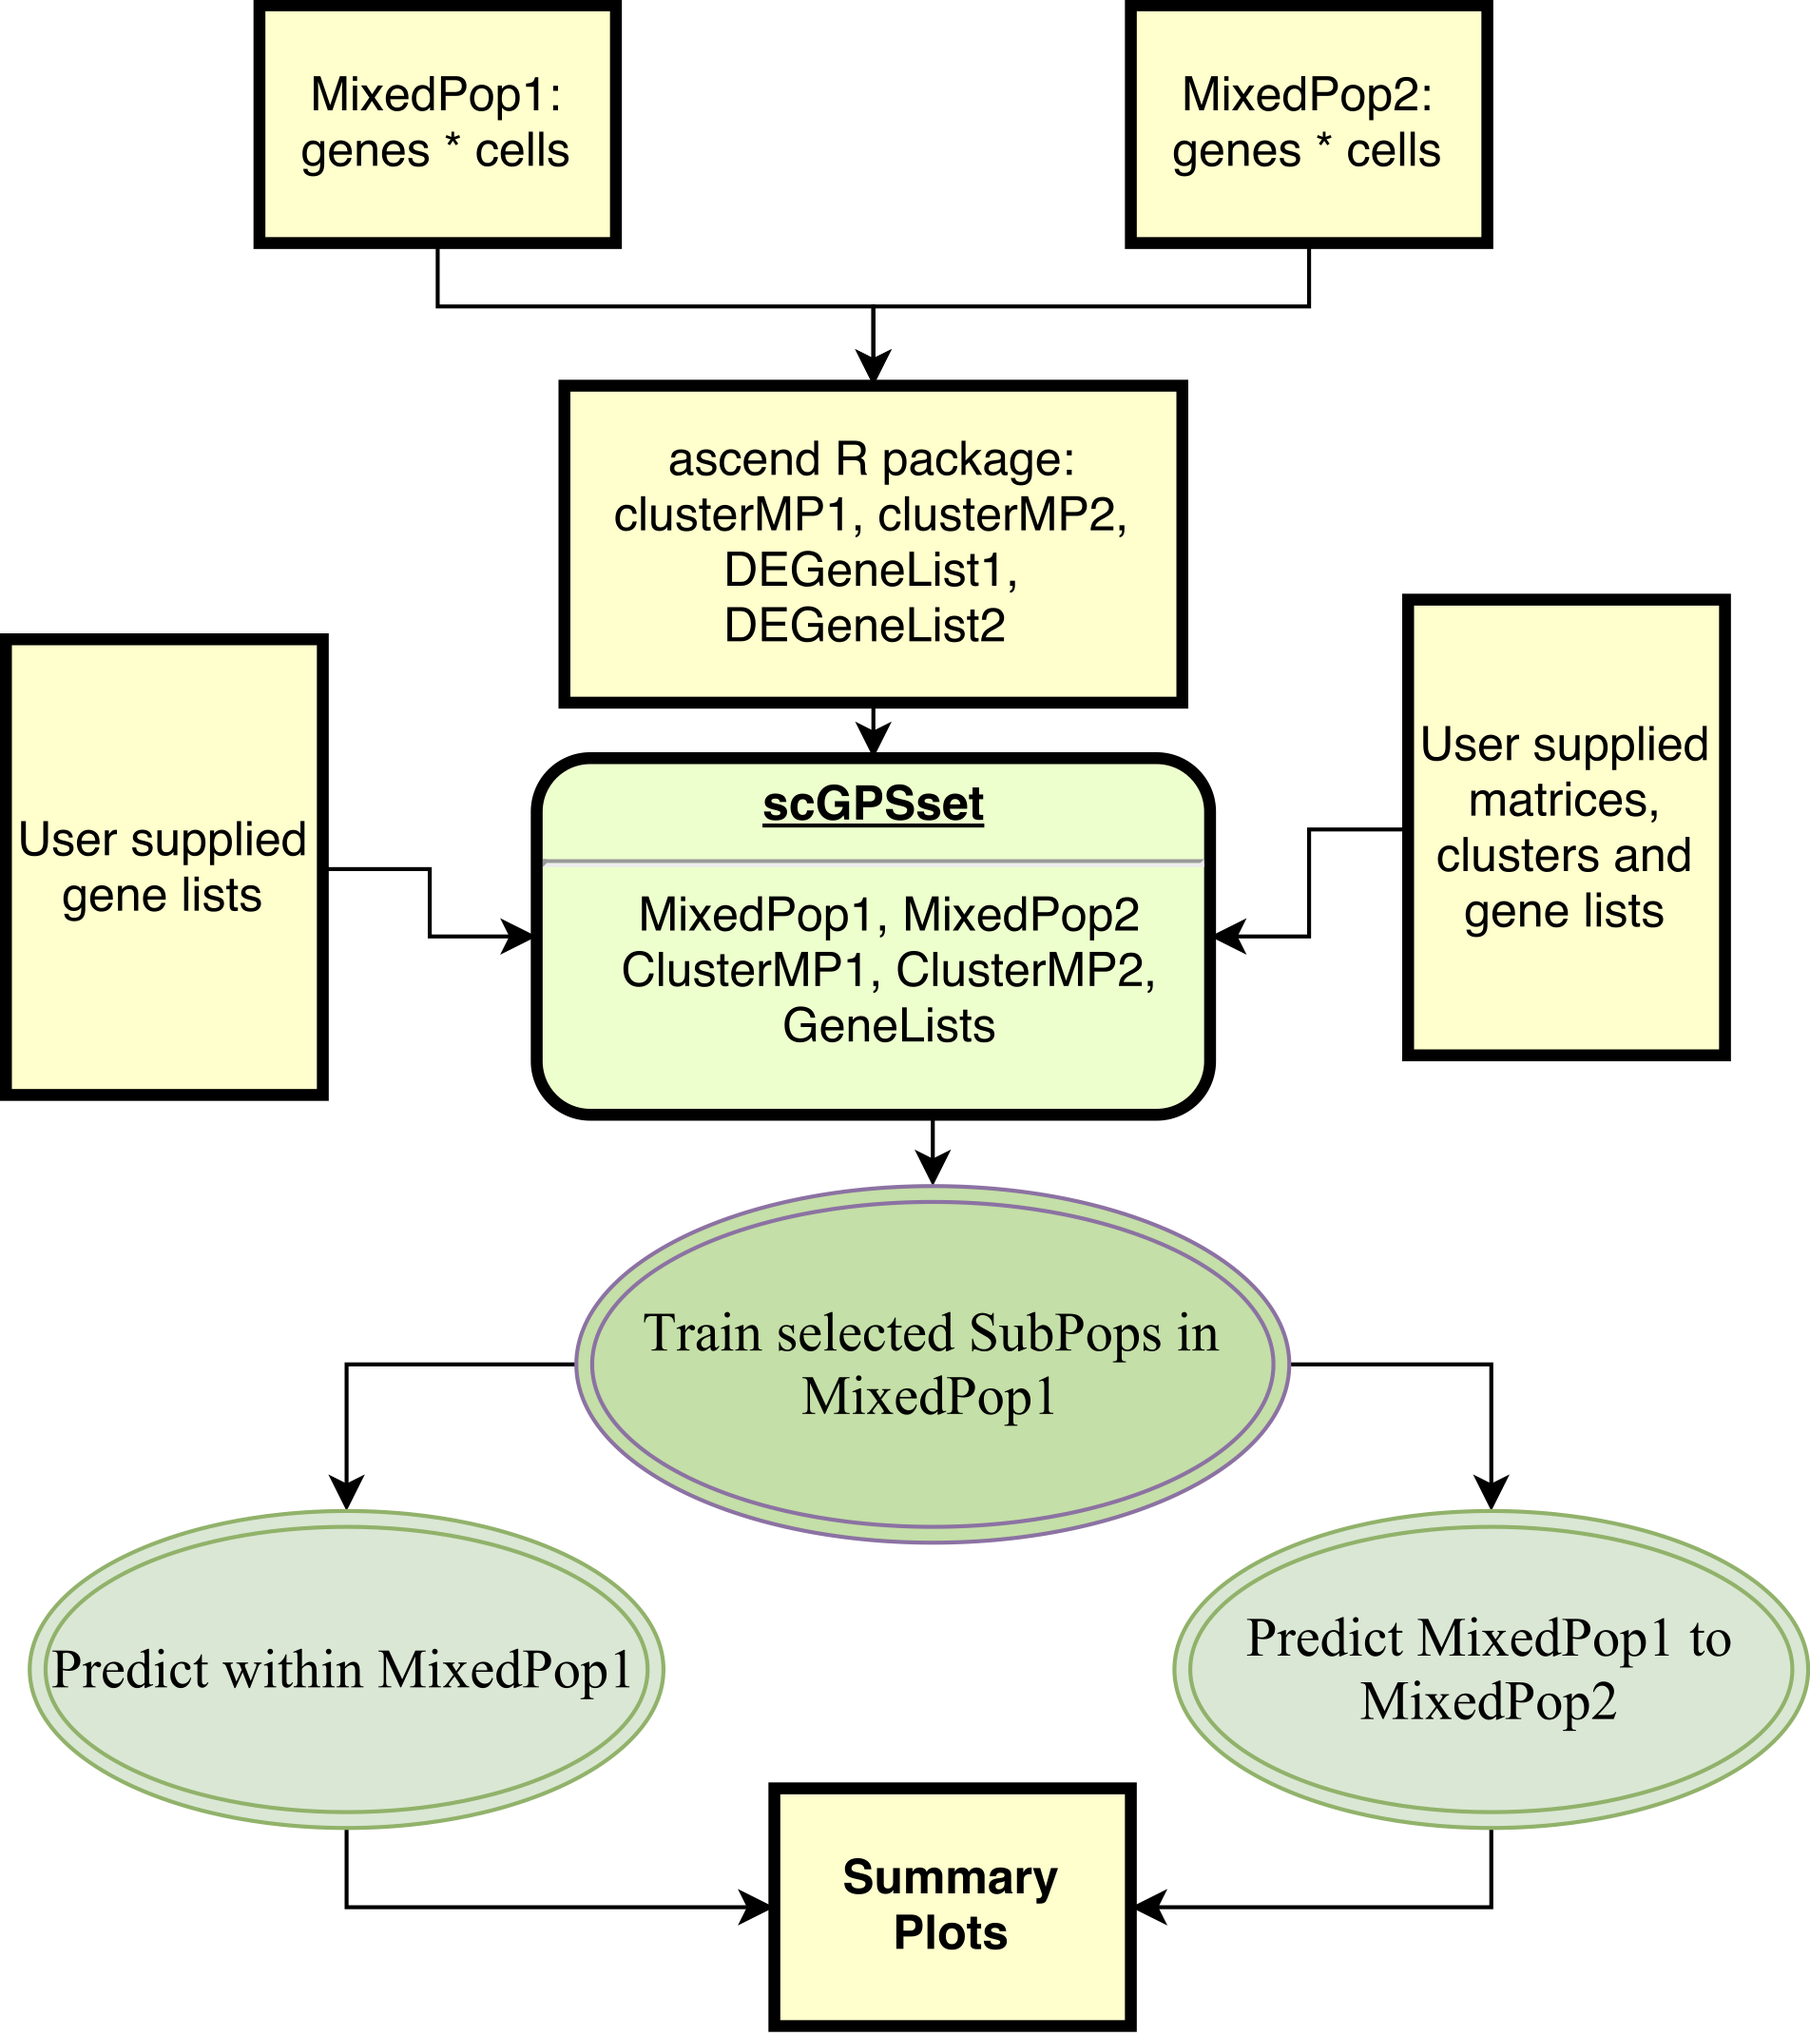
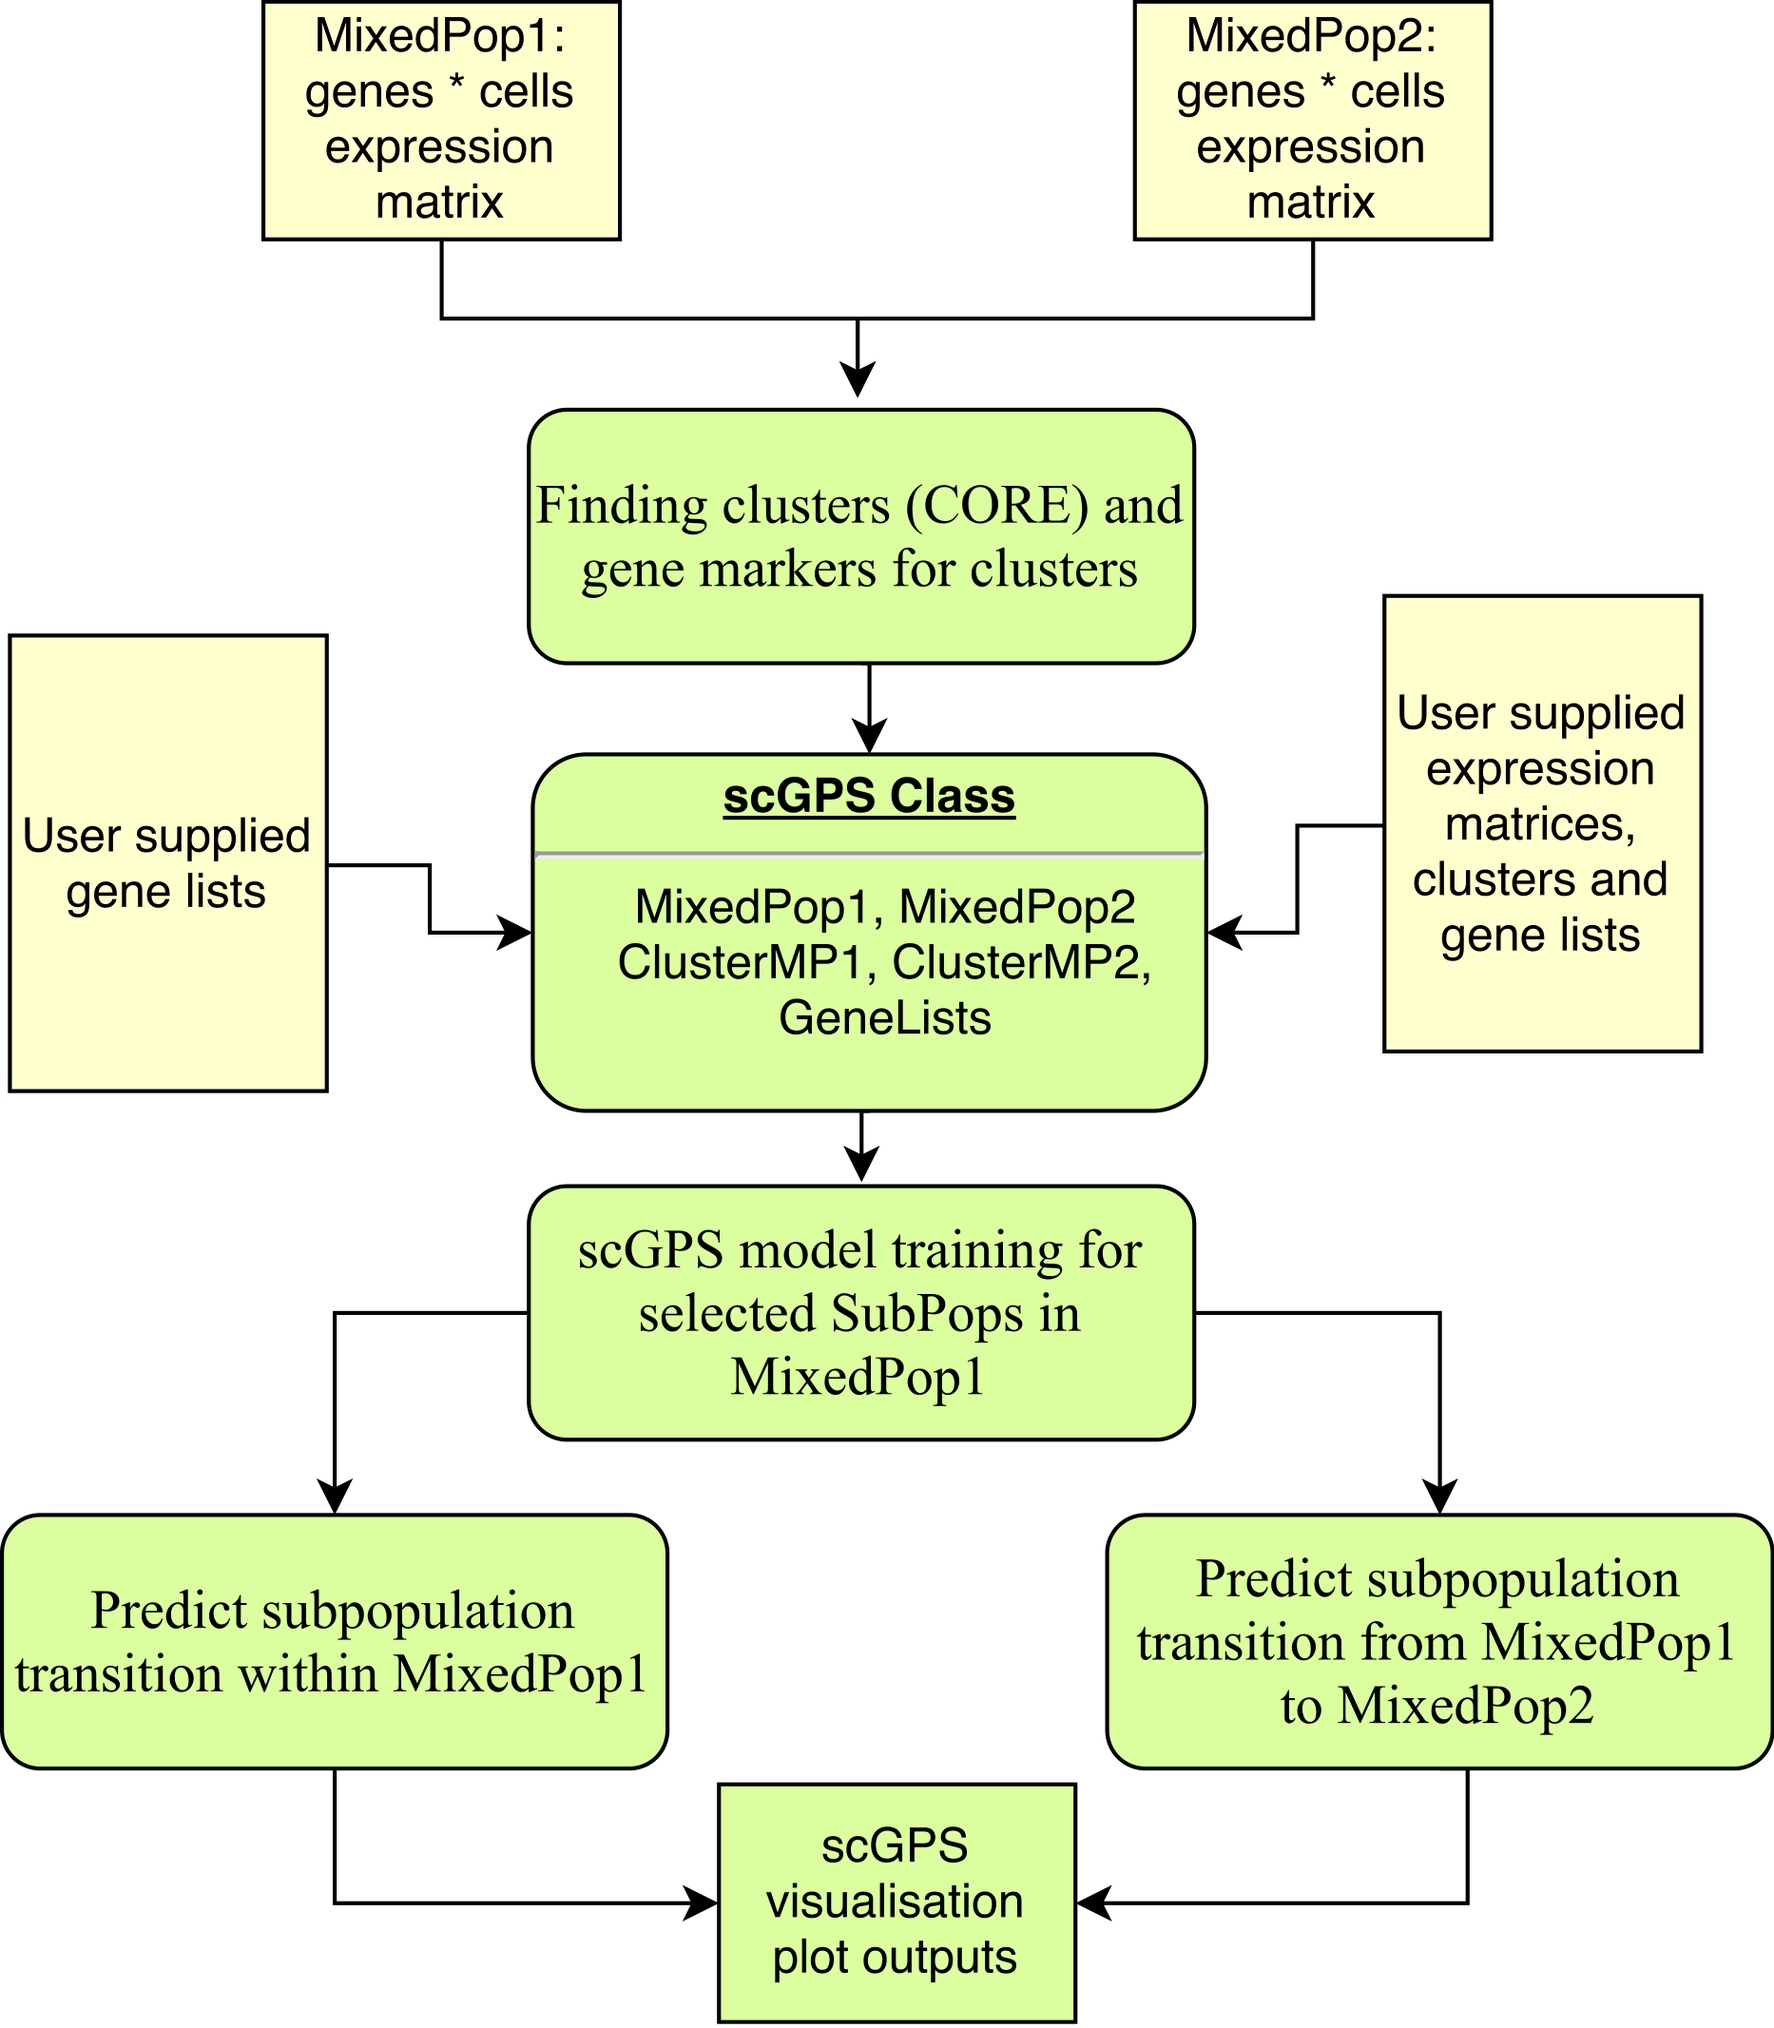
Update general info

diff --git a/README.md b/README.md
@@ -1,9 +1,14 @@
-# scGPS
-A complete  single cell RNA analysis frame work to answer the question: how to decompose a mixed population into clusters (CORE) and to analyse the relationship between clusters (scGPS). 
+# scGPS general description
+A complete  single cell RNA analysis framework to answer the common question: how to decompose a mixed population into clusters (CORE) and to analyse the relationship between clusters (scGPS). 
 
-## Workflow
+## scGPS workflow
 
-scGPS takes scRNA dataset(s) for one more more unknown sample(s) to find subpopulations and relationship between these subpopulations. The input dataset(s) contains mixed, heterogeous cells. scGPS first uses CORE (V2.0) to identify homogenous subpopulations. It contains a number of functions to verify the identified subpopulations (e.g. by comparing with results from PCA, tSNE and the imputation method CIDR). If has options to find gene markers that distinguish a subpopulation from the remaining cells. In the second stage, scGPS applies a machine learning procedure to select optimal gene predictors and to build a prediction model that can estimate transition score, which is the probability of cells from one subpopulation that can likely transition to the other subpopulation.
+scGPS takes scRNA expression dataset(s) for one more more unknown sample(s) to find subpopulations and relationship between these subpopulations. The input dataset(s) contains mixed, heterogeous cells. scGPS first uses CORE (V2.0) to identify homogenous subpopulations. scGPS contains a number of functions to verify the subpopulations identified by CORE (e.g. functions to compare with results from PCA, tSNE and the imputation method CIDR). scGPS also has options to find gene markers that distinguish a subpopulation from the remaining cells. In the second stage, scGPS applies a machine learning procedure to select optimal gene predictors and to build prediction models that can estimate between-subpopulation transition scores, which are the probability of cells from one subpopulation that can likely transition to the other subpopulation.
  
-![Alt text](./packagePlan.png?raw=true "scGPS")
+<p align="center">
+<img src="./packagePlan.png" alt="Drawing" style="width: 400px;"/>  
+</p>
+
+
+
 
